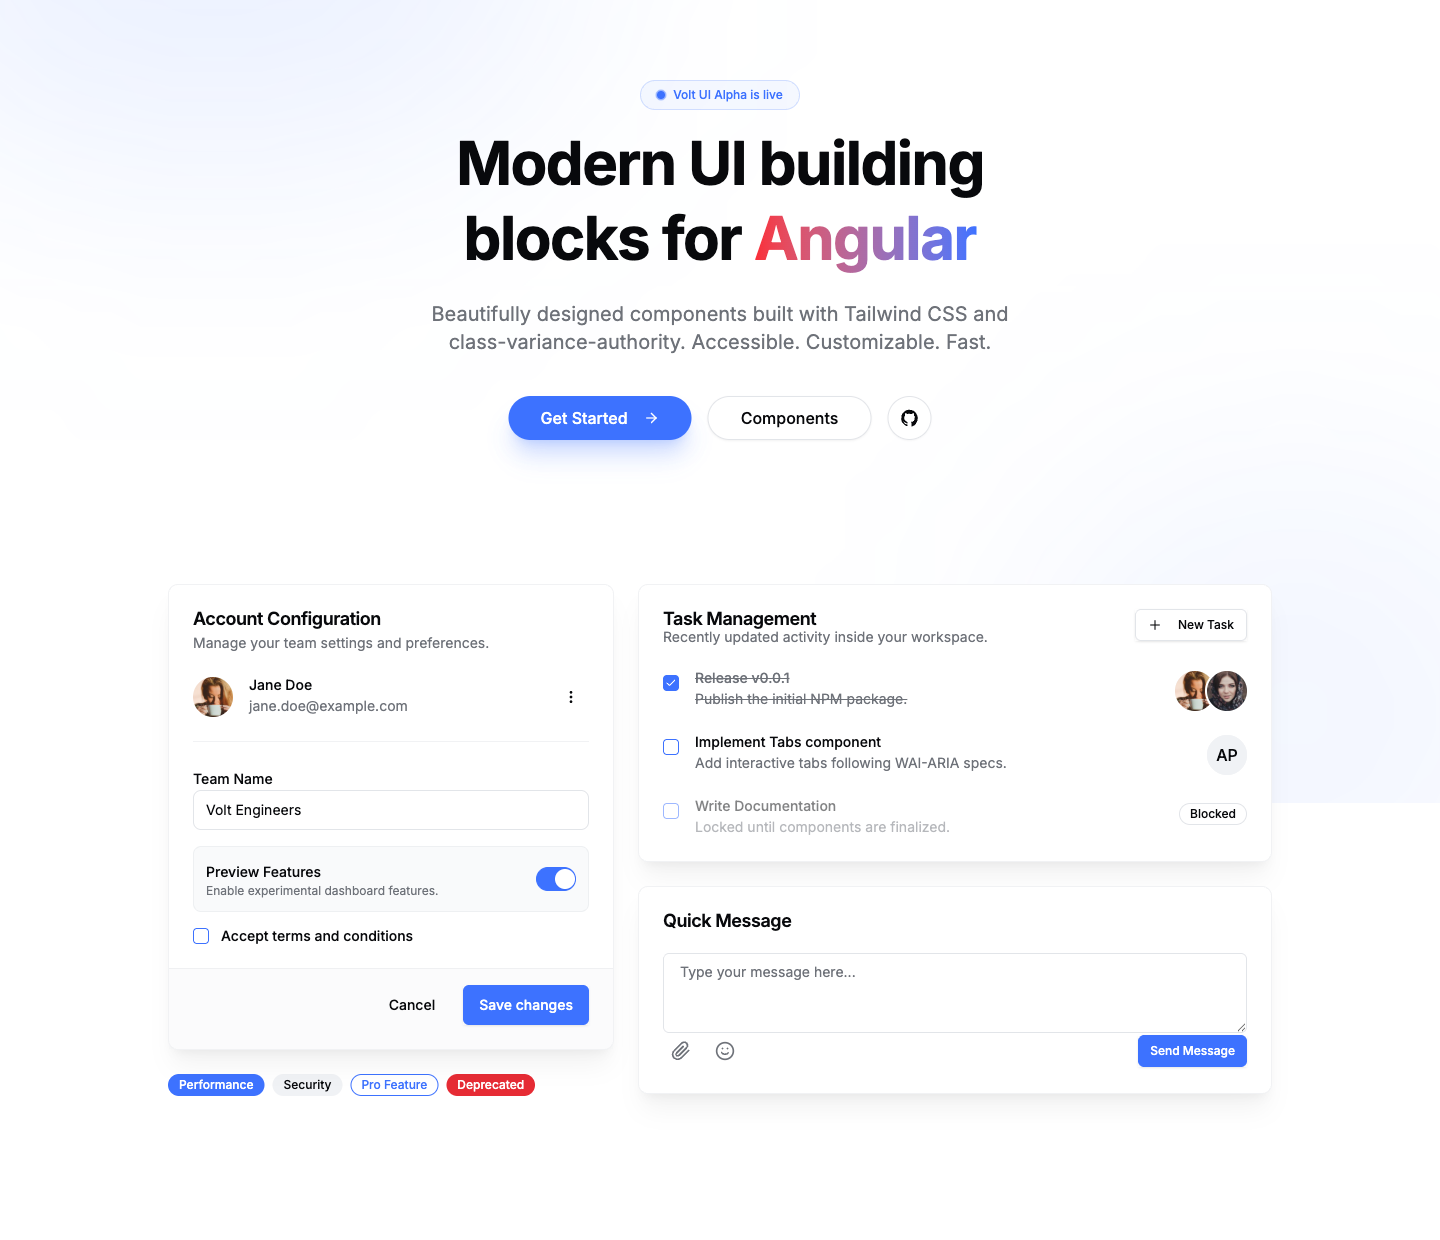
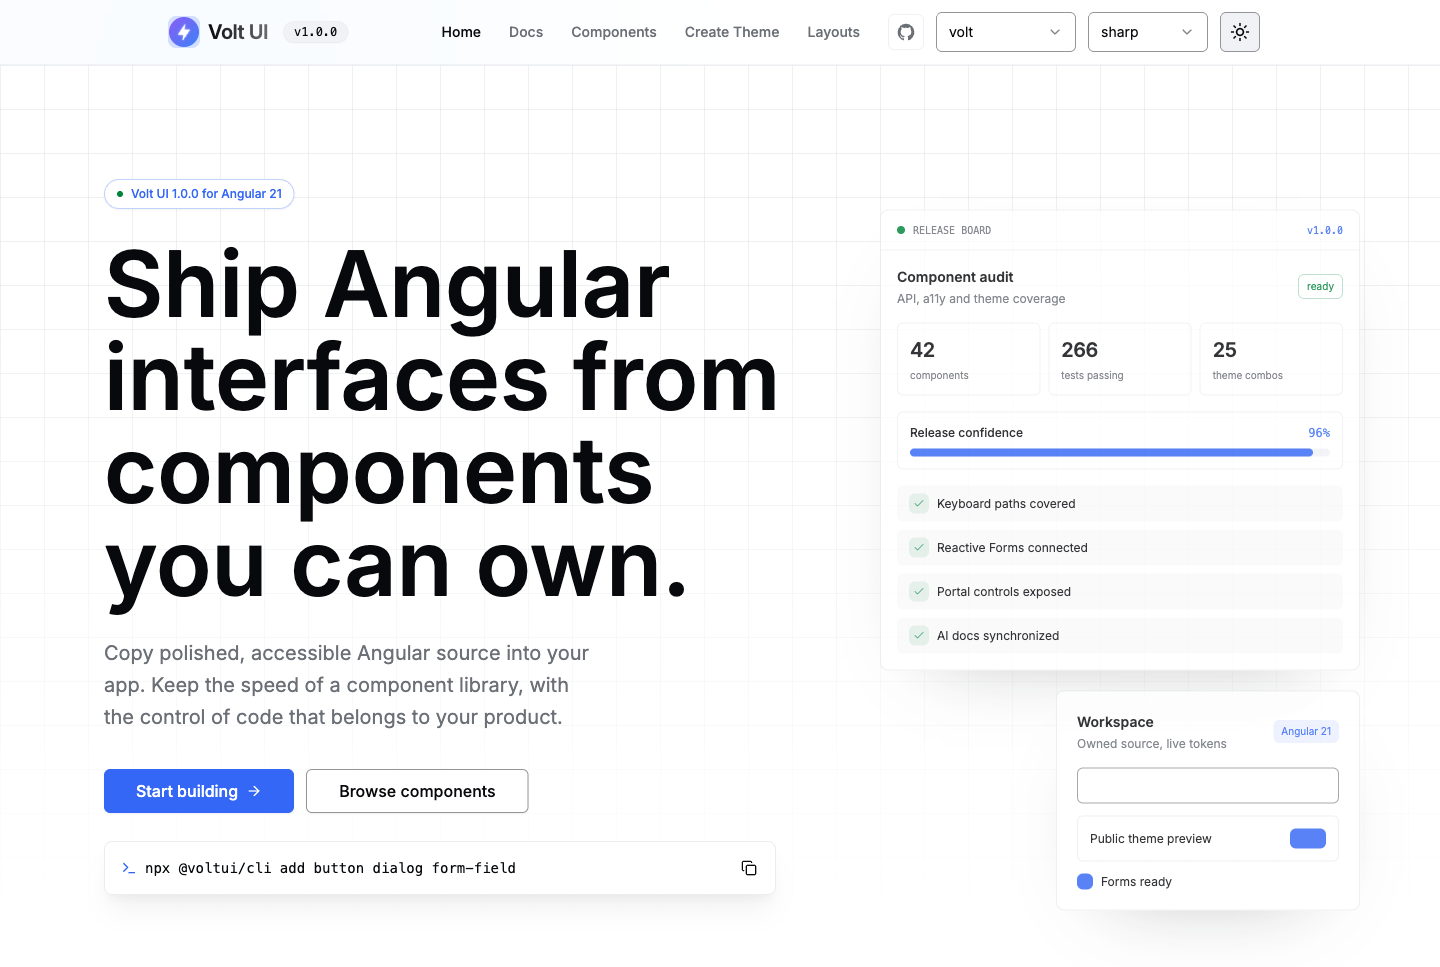
docs: refresh README hero and announce 1.0
The hero screenshots were captured in July, before the landing page was
redesigned — they showed a headline and a decorative collage that no longer
exist. Regenerated both light and dark from the current page, framed to the
hero's actual content bounds instead of leaving a band of empty grid.

Adds a short 1.0 callout (API locked for the 1.x line, links to the changelog,
migration guide and versioning policy), notes the Theme Builder's new one-click
palette generation and Palette Crafter import, and works in the fact that the
component count happens to be 42.

diff --git a/README.md b/README.md
@@ -17,6 +17,17 @@ and [ng-primitives](https://ng-primitives.dev) — accessible, themeable, and yo
 
 <br/>
 
+### 🎉 v1.0 is here
+
+**42 components. API locked. Semver from here on out.**
+
+After nine `0.x` minors, the public surface is frozen for the whole `1.x` line — inputs,
+outputs and selectors won't move under you again outside a major.<br/>
+See the **[release notes](./CHANGELOG.md)** · **[migration guide](./MIGRATION.md)** ·
+**[versioning policy](https://volt-ui.andersseen.dev/docs/versioning)**
+
+<br/>
+
 [![npm — components](https://img.shields.io/npm/v/@voltui/components?style=for-the-badge&logo=npm&logoColor=white&label=components&color=6366F1)](https://www.npmjs.com/package/@voltui/components)
 [![npm — cli](https://img.shields.io/npm/v/@voltui/cli?style=for-the-badge&logo=npm&logoColor=white&label=cli&color=6366F1)](https://www.npmjs.com/package/@voltui/cli)
 [![Angular 21](https://img.shields.io/badge/Angular-21-DD0031?style=for-the-badge&logo=angular&logoColor=white)](https://angular.dev)
@@ -151,14 +162,22 @@ Themes are CSS custom properties mapped into Tailwind v4 via `@theme inline`. Co
 </tr>
 </table>
 
-> 🎛 Mix and match live in the **[Theme Builder →](https://volt-ui.andersseen.dev/create-theme)**
+> 🎛 Mix and match live in the **[Theme Builder →](https://volt-ui.andersseen.dev/create-theme)** — generate a
+> contrast-checked palette in one click, or import one from
+> [Palette Crafter](https://palette-crafter.andersseen.dev).
 
 ---
 
 ## 🧩 Component Catalog
 
-**42 components** across every common surface. The v1 surface is now fixed and every
-component is labeled `stable` or `beta` — see **[COMPONENT_STATUS.md](./COMPONENT_STATUS.md)**.
+**42 components** across every common surface — which is, of course, the Answer to the
+Ultimate Question of Life, the Universe, and Everything. 🐋 The v1 surface is now fixed and
+every component is labeled `stable` or `beta` — see
+**[COMPONENT_STATUS.md](./COMPONENT_STATUS.md)**.
+
+<sub>Deep Thought needed 7½ million years to arrive at 42. We needed nine <code>0.x</code>
+minors, which is arguably worse. Don't panic: shipping a 43rd component in some future
+minor will ruin this joke, and we've made peace with that.</sub>
 
 <details open>
 <summary><b>Browse all components</b></summary>
